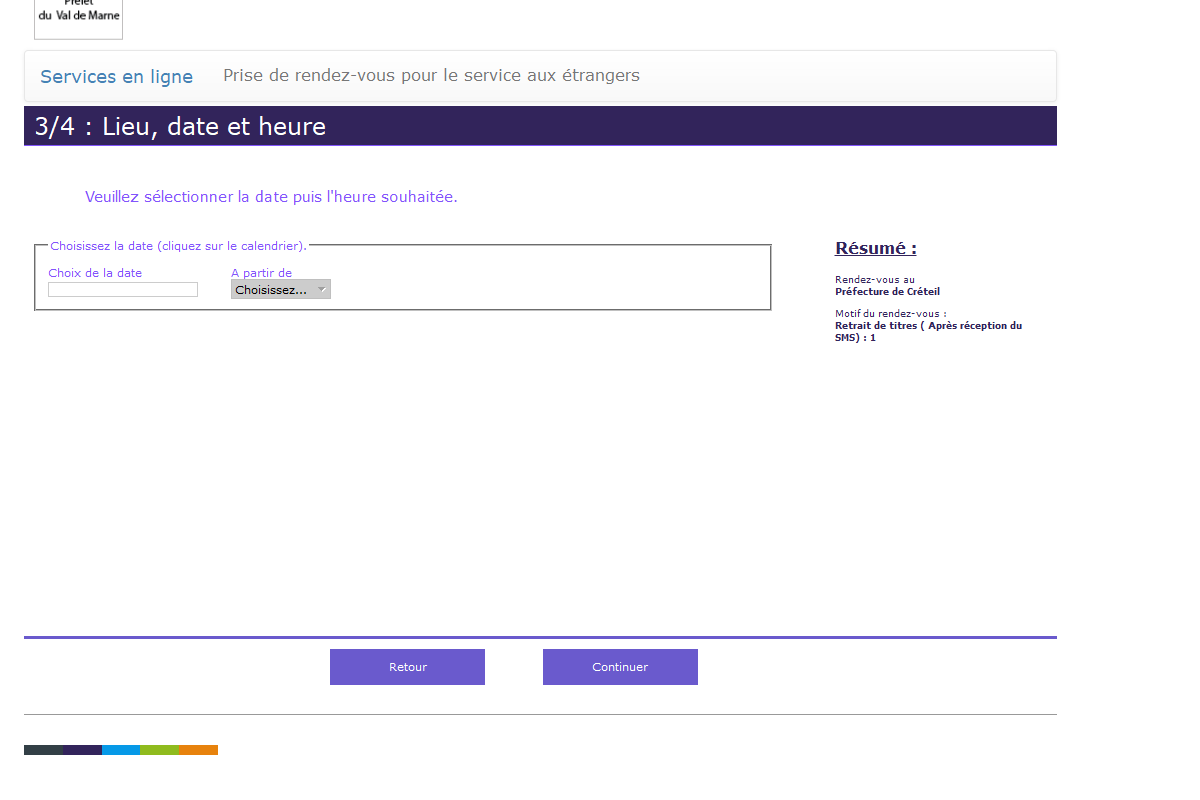
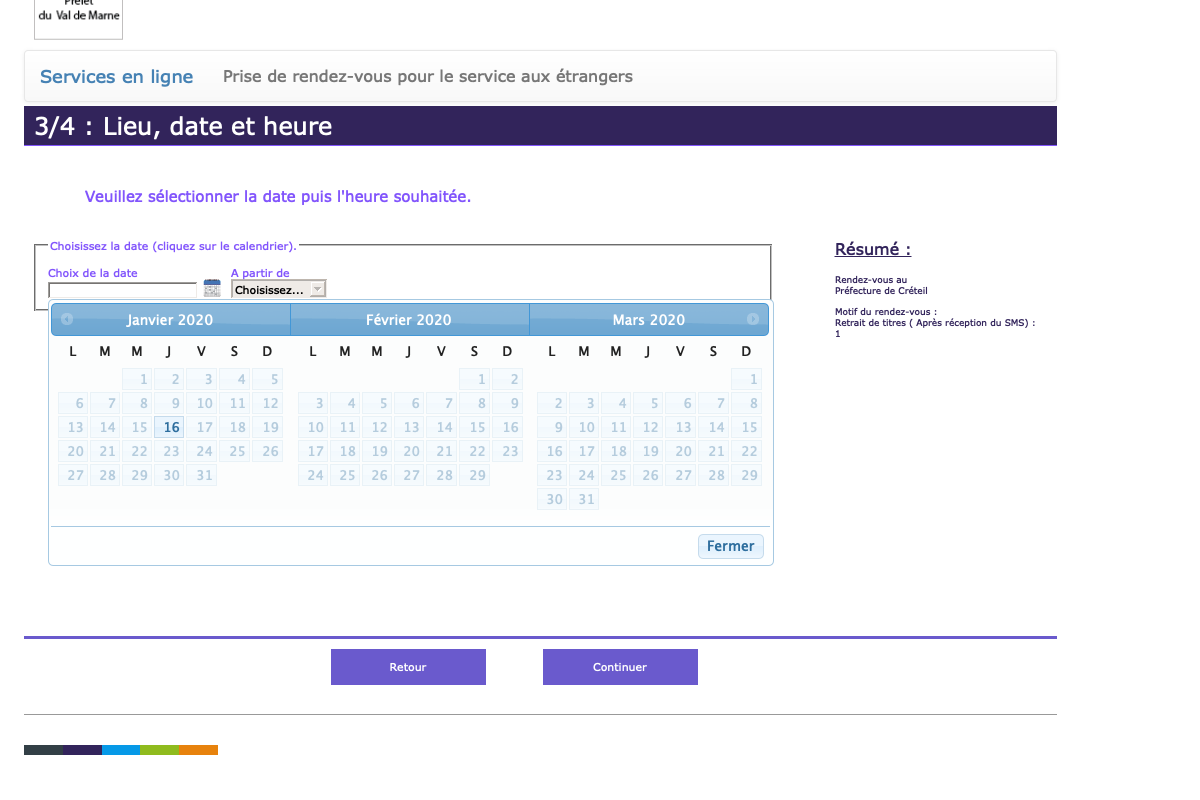
Enhance process

diff --git a/index.js b/index.js
@@ -1,56 +1,90 @@
 var casper = require('casper').create({
    viewportSize: {width: 1280, height: 1000}
 });
-var $ = require('jquery');
+
 var x = require('casper').selectXPath;
-var title;
-var elements;
+
+
+casper.userAgent('Mozilla/5.0 (Macintosh; Intel Mac OS X 10_15_1) AppleWebKit/537.36 (KHTML, like Gecko) Chrome/79.0.3945.117 Safari/537.36');
+
 casper.start('https://rdv-etrangers-94.interieur.gouv.fr/eAppointmentpref94/element/jsp/specific/pref94.jsp' ,function(){
       // attends le charge
       this.waitForSelector('form[action="javascript:coin()"]');
-   });
-casper.then(function() {
-    // rempli le champ de l'adresse
+});
+
+
+casper.waitForSelector('form.form-horizontal', function() {
     this.fill('form.form-horizontal', { CP: '94200' }, true);
- });
+});
+
 casper.then(function(){
    this.click(x('//*[@id="pane3"]/div[2]/div/div[3]/div[2]/div[1]/input'));
 })
+
 casper.then(function(){
    this.click(x('//*[@id="nextButtonId"]'));
 })
+
 casper.then(function(){
-   this.waitForSelector("#calendarImgId");
+    casper.evaluate(function() {
+        openJqueryCal(true);
+    });
 })
-casper.then(function(){
-   this.click("#dayValueId");
-})
-casper.then(function(){
-   this.waitForSelector("#ui-datepicker-div")
-})
-// casper.then(function(){
-//    elements = this.getHTML('a')
-//    })
-casper.then(function(){
-   if(this.exists('div.title')){
-      title =  this.getHTML('div.title');
-   }
-   this.echo(title);
-   this.echo(elements);
-   this.capture('prefecture.png', {
-      top: 100,
-      left: 100,
-      width: 1200,
-      height: 800
-  });
-})
-casper.run(function(){
-     if(title != null){
-       this.echo(title)
-       this.echo()
-       return console.log("j'ai tout affiche");
-     }
-     else{
-        console.log("je n'ai rien trouve")
-    }
+
+casper.waitForSelector('a.ui-state-default', function(){
+    this.wait(1000, function() {
+        console.log('capture calendar');
+        this.capture('prefecture.png', {
+            top: 100,
+            left: 100,
+            width: 1200,
+            height: 800
+        });
+    });
+}, function () {
+    console.log('timeout');
 });
+
+casper.then(function() {
+    this.click('a.ui-state-default');
+    this.wait(1000, function() {
+        console.log('capture clicked');
+        this.capture('clicked.png', {
+            top: 100,
+            left: 100,
+            width: 1200,
+            height: 800
+        });
+    });
+});
+
+casper.then(function(){
+    this.evaluate(function() {
+        document.querySelector('select#hourValueSelect').selectedIndex = 1; //it is obvious
+        disableButtons();onHourChanged();
+    });
+});
+
+casper.waitForSelector('.availabilityColumnX', function () {
+    this.click('input[type="radio"]');
+    console.log('capture select');
+    this.capture('select.png');
+});
+
+casper.then(function(){
+    this.click(x('//*[@id="nextButtonId"]'));
+})
+
+casper.waitForSelector('.choice_captcha', function () {
+    console.log('capture form');
+    this.capture('form.png');
+
+    console.log('capture captcha');
+    this.captureSelector('captcha.png', '.img_captcha img');
+
+});
+
+
+
+
+casper.run(function(){});

diff --git a/tesseract.js b/tesseract.js
@@ -1,0 +1,15 @@
+#!/usr/bin/env node
+
+const { createWorker } = require('tesseract.js');
+const worker = createWorker();
+
+console.log('ici');
+
+(async () => {
+    await worker.load();
+    await worker.loadLanguage('eng');
+    await worker.initialize('eng');
+    const { data: { text } } = await worker.recognize('captcha.png');
+    console.log(text);
+    await worker.terminate();
+})();
